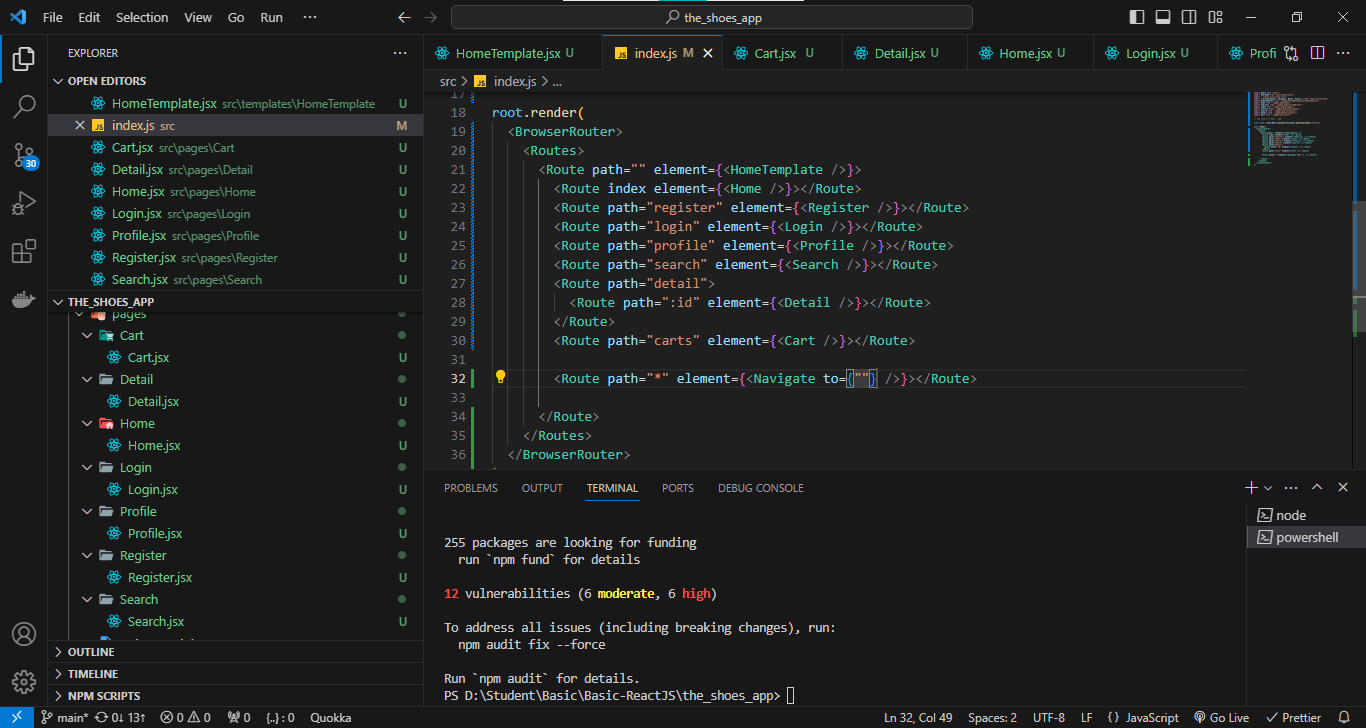
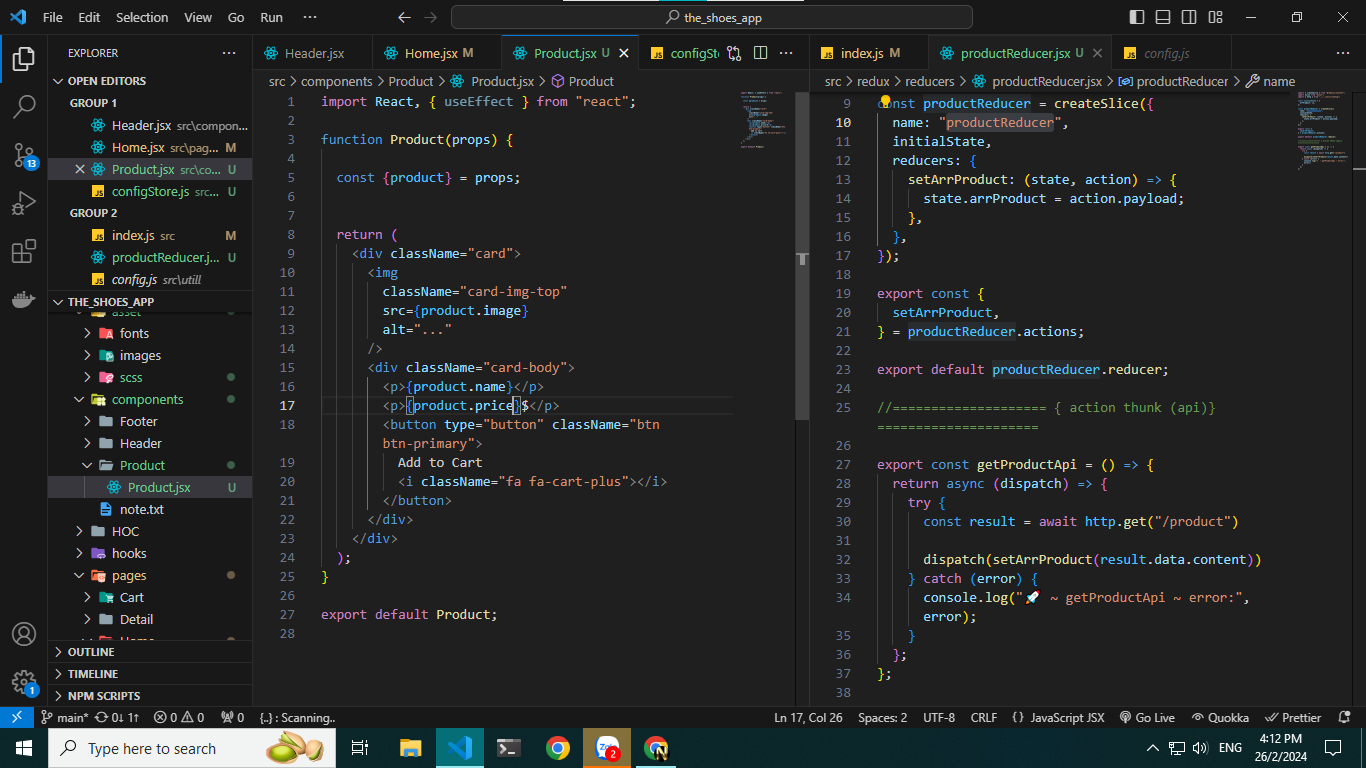
appShoes: call api data Shoes

diff --git a/the_shoes_app/src/index.js b/the_shoes_app/src/index.js
@@ -2,6 +2,9 @@ import React from "react";
 import ReactDOM from "react-dom/client";
 import "./asset/scss/style.scss";
 import { BrowserRouter, Navigate, Route, Routes } from "react-router-dom";
+import { Provider } from "react-redux";
+import { store } from "./redux/configStore";
+//
 import HomeTemplate from "./templates/HomeTemplate/HomeTemplate";
 import Home from "./pages/Home/Home";
 import Register from "./pages/Register/Register";
@@ -11,27 +14,29 @@ import Search from "./pages/Search/Search";
 import Detail from "./pages/Detail/Detail";
 import Cart from "./pages/Cart/Cart";
 
+
 // cấu hình các route - dom
 
 const root = ReactDOM.createRoot(document.getElementById("root"));
 
 root.render(
-  <BrowserRouter>
-    <Routes>
-      <Route path="" element={<HomeTemplate />}>
-        <Route index element={<Home />}></Route>
-        <Route path="register" element={<Register />}></Route>
-        <Route path="login" element={<Login />}></Route>
-        <Route path="profile" element={<Profile />}></Route>
-        <Route path="search" element={<Search />}></Route>
-        <Route path="detail">
-          <Route path=":id" element={<Detail />}></Route>
+  <Provider store={store}>
+    <BrowserRouter>
+      <Routes>
+        <Route path="" element={<HomeTemplate />}>
+          <Route index element={<Home />}></Route>
+          <Route path="register" element={<Register />}></Route>
+          <Route path="login" element={<Login />}></Route>
+          <Route path="profile" element={<Profile />}></Route>
+          <Route path="search" element={<Search />}></Route>
+          <Route path="detail">
+            <Route path=":id" element={<Detail />}></Route>
+          </Route>
+          <Route path="carts" element={<Cart />}></Route>
+
+          <Route path="*" element={<Navigate to={""} />}></Route>
         </Route>
-        <Route path="carts" element={<Cart />}></Route>
-
-        <Route path="*" element={<Navigate to={""} />}></Route>
-
-      </Route>
-    </Routes>
-  </BrowserRouter>
+      </Routes>
+    </BrowserRouter>
+  </Provider>
 );

diff --git a/the_shoes_app/src/pages/Home/Home.jsx b/the_shoes_app/src/pages/Home/Home.jsx
@@ -1,9 +1,39 @@
-import React from 'react'
+import React, { useEffect } from "react";
+import Product from "../../components/Product/Product";
+import { useDispatch, useSelector } from "react-redux";
+import { getProductApi } from "../../redux/reducers/productReducer";
 
 export default function Home() {
-  return (
-    <div>
-      Home
+  const dispatch = useDispatch();
+  //
+
+  const { arrProduct } = useSelector((state) => state.productReducer);
+  useEffect(() => {
+    if (arrProduct.length === 0) {
+      dispatch(getProductApi())
+    }
+  }, []);
+
+  // render 
+  const renderProduct = () => {
+    if(arrProduct.length === 0) {
+      return <>Không tìm thấy giá trị!</>
+    }
+
+    return arrProduct.map((item, index) =>{
+      return <div className="col-3 mt-2 " key={index}>
+      <Product product={item} />
     </div>
-  )
+    })
+  }
+  return (
+    <div className="container">
+      <h3 className="text-center">Shoes app</h3>
+      <div className="row">
+        
+        {/*  */}
+        {renderProduct()}
+      </div>
+    </div>
+  );
 }

diff --git a/the_shoes_app/src/redux/reducers/productReducer.jsx b/the_shoes_app/src/redux/reducers/productReducer.jsx
@@ -1,0 +1,37 @@
+import { createSlice } from "@reduxjs/toolkit";
+import axios from "axios";
+import { http } from "../../utill/config";
+
+const initialState = {
+  arrProduct: [],
+};
+
+const productReducer = createSlice({
+  name: "productReducer",
+  initialState,
+  reducers: {
+    setArrProduct: (state, action) => {
+      state.arrProduct = action.payload;
+    },
+  },
+});
+
+export const {
+  setArrProduct,
+} = productReducer.actions;
+
+export default productReducer.reducer;
+
+//==================== { action thunk (api)} =====================
+
+export const getProductApi = () => {
+  return async (dispatch) => {
+    try {
+      const result = await http.get("/product")
+
+      dispatch(setArrProduct(result.data.content))
+    } catch (error) {
+      console.log("🚀 ~ getProductApi ~ error:", error);
+    }
+  };
+};

diff --git a/the_shoes_app/src/components/Product/Product.jsx b/the_shoes_app/src/components/Product/Product.jsx
@@ -1,0 +1,27 @@
+import React, { useEffect } from "react";
+
+function Product(props) {
+
+  const {product} = props;
+
+
+  return (
+    <div className="card">
+      <img
+        className="card-img-top"
+        src={product.image}
+        alt="..."
+      />
+      <div className="card-body">
+        <p>{product.name}</p>
+        <p>{product.price}$</p>
+        <button type="button" className="btn btn-primary">
+          Add to Cart
+          <i className="fa fa-cart-plus"></i>
+        </button>
+      </div>
+    </div>
+  );
+}
+
+export default Product;

diff --git a/the_shoes_app/src/asset/scss/style.scss b/the_shoes_app/src/asset/scss/style.scss
@@ -1,0 +1,13 @@
+/***
+    - trong cac folder component va page tổ chức như các react component folder
+    - Trong cac file component.scss va page.scss thi import _variable
+    - trong filder style se import  base, component, pages, template,...
+*/
+//
+@import "./base/base";
+//
+@import "./components/header";
+//
+@import "./pages/home";
+@import "./pages/login";
+@import "./pages/register";

diff --git a/the_shoes_app/src/redux/configStore.js b/the_shoes_app/src/redux/configStore.js
@@ -1,0 +1,9 @@
+import { configureStore } from "@reduxjs/toolkit";
+import productReducer from "./reducers/productReducer";
+
+
+export const store = configureStore({
+    reducer: {
+        productReducer: productReducer,
+    }
+})

diff --git a/the_shoes_app/src/asset/scss/base/_base.scss b/the_shoes_app/src/asset/scss/base/_base.scss
@@ -1,0 +1,9 @@
+*{
+    margin: 0px;
+    padding: 0;
+    box-sizing: border-box;
+}
+
+.container{
+    max-width: 1280px;
+}

diff --git a/the_shoes_app/src/asset/scss/components/_header.scss b/the_shoes_app/src/asset/scss/components/_header.scss
@@ -1,0 +1,1 @@
+@import '../themes/variable';

diff --git a/the_shoes_app/src/asset/scss/pages/_home.scss b/the_shoes_app/src/asset/scss/pages/_home.scss
@@ -1,0 +1,1 @@
+@import '../themes/variable';
